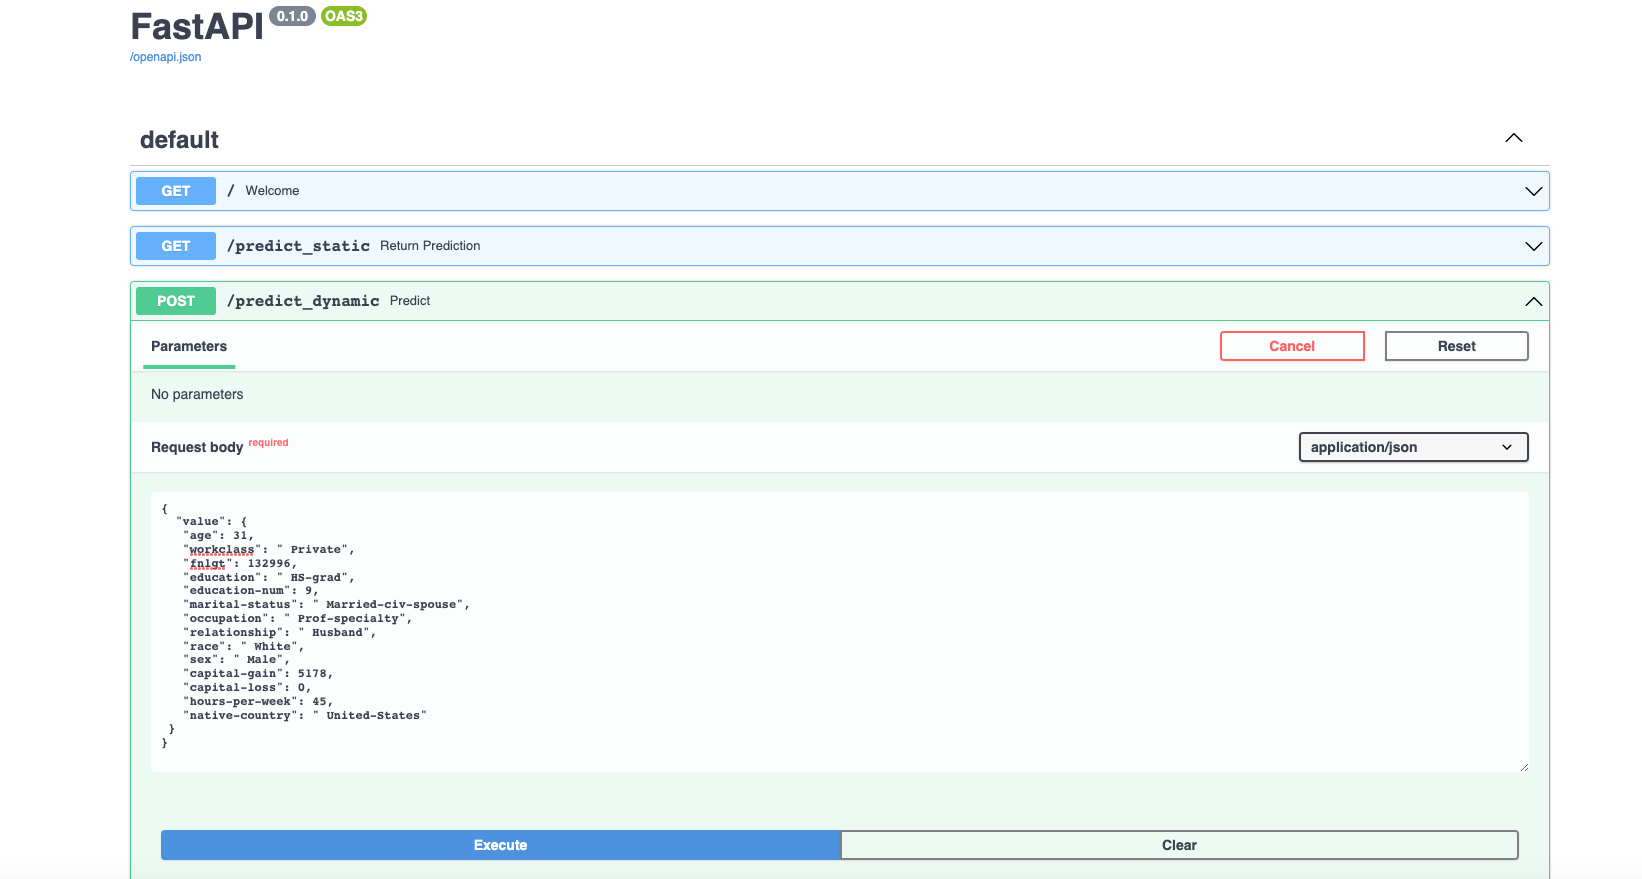
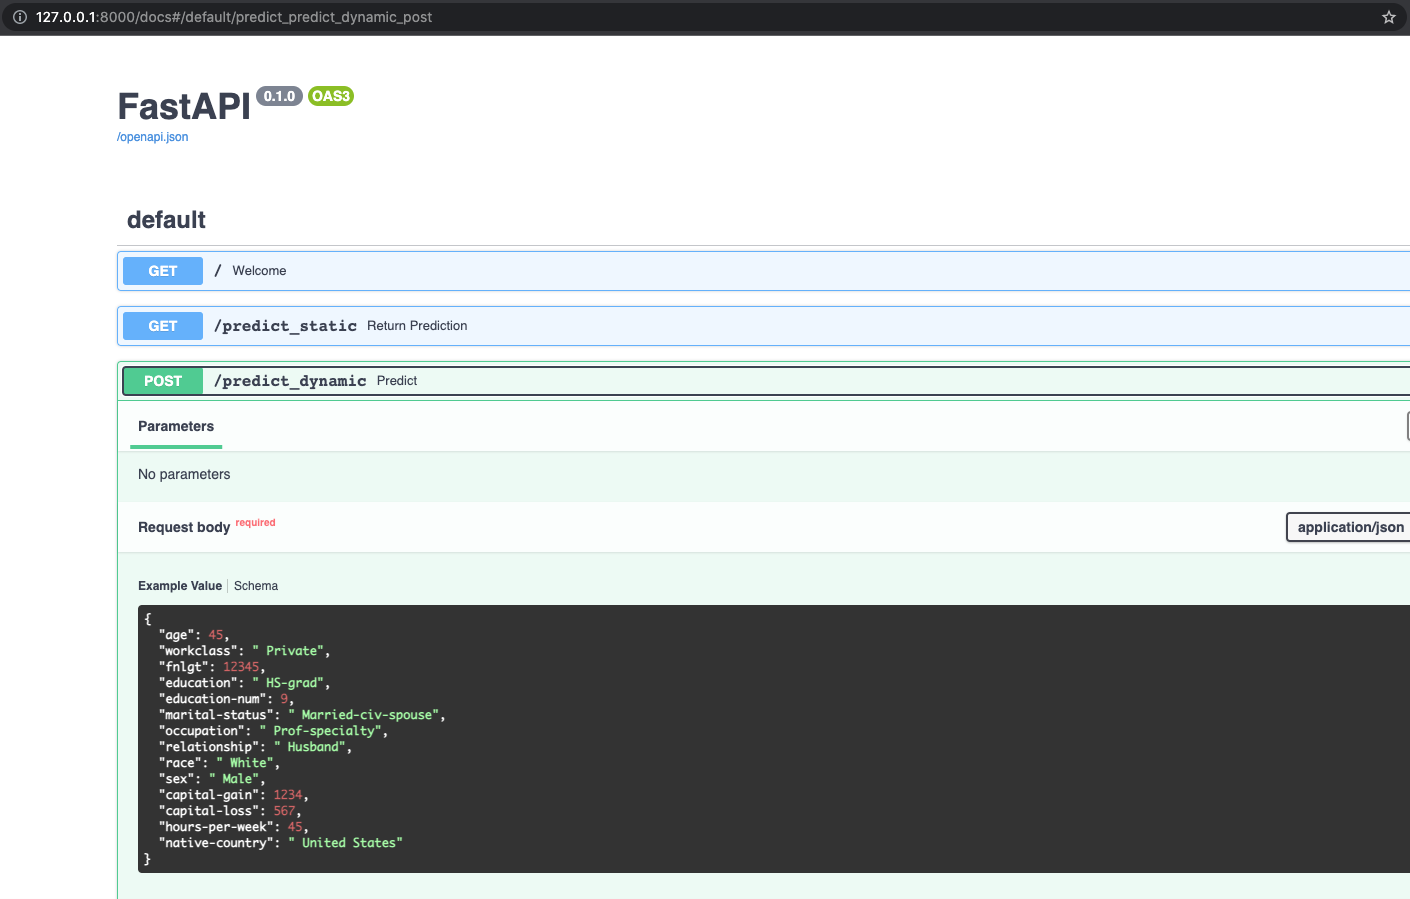
Updated example.png and main

diff --git a/starter/main.py b/starter/main.py
@@ -56,9 +56,6 @@ score_data = pd.read_csv('starter/data/first_100_test_inputs.csv')
 train_data = pd.read_csv('starter/data/train.csv')
 
 xgb = joblib.load("starter/model/final_xgb.pkl")
-encoder = joblib.load("starter/model/encoder.pkl")
-lb = joblib.load("starter/model/lb.pkl")
-
 
 @app.get("/")
 def welcome():
@@ -76,7 +73,8 @@ def return_prediction():
 	return {'Hi': score_data.shape}
 
 @app.post("/predict_dynamic")
-def predict(body: Value, encoder=encoder, lb=lb):
+def predict(body: Value):
+	print('hi')
 	body_dict = body.dict()
 
 	# Due to index issue
@@ -87,6 +85,9 @@ def predict(body: Value, encoder=encoder, lb=lb):
 # 	X_train, y_train, encoder, lb = process_data(
 #     train_data, categorical_features=cat_features, label="salary", training=True
 # )
+	
+	encoder = joblib.load("starter/model/encoder.pkl")
+	lb = joblib.load("starter/model/lb.pkl")
 
 	fixed_body_processed, y_test, encoder, lb = process_data(
     fixed_body_df, categorical_features=cat_features, label=None, training=False, encoder=encoder, lb=lb
